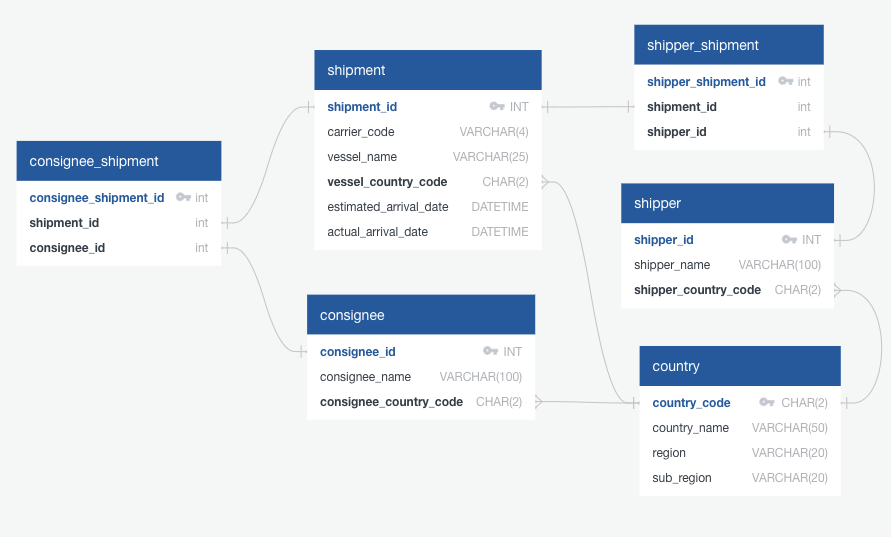
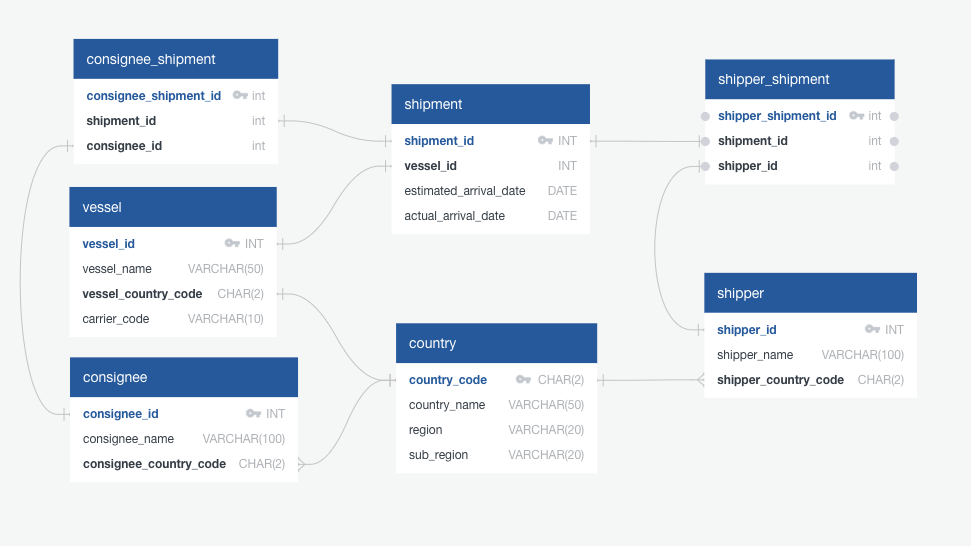
Add silver layer effort; add vessel table

diff --git a/lib/utils.py b/lib/utils.py
@@ -1,6 +1,17 @@
 import numpy as np
 
 
+def data_fetch_url(layer, table, year, part):
+    return f"/Users/jesseputnam/cs-learning/skillstorm/project01/data/{layer}_layer/{table}_20{year}_part_{part}.csv"
+
+
+def data_send_url(layer, table):
+    return f"/Users/jesseputnam/cs-learning/skillstorm/project01/data/{layer}_layer/{table}.csv"
+
+
+####################################################################################
+
+
 def clean_name(entity_name, address_1):
     # Handle the mr/mrs error
     if entity_name in ["MR. AND/OR MRS.", "MR.", "MRS."]:
